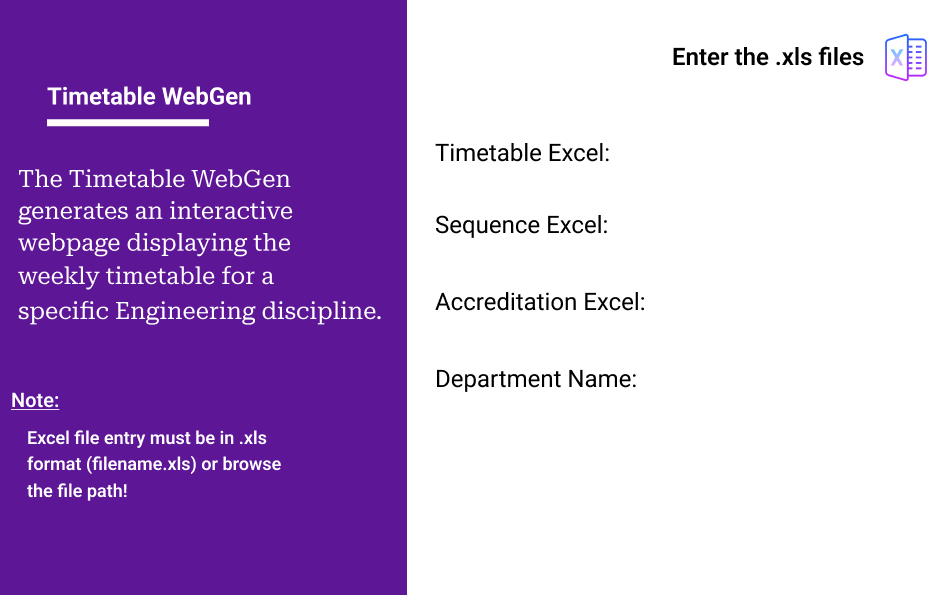
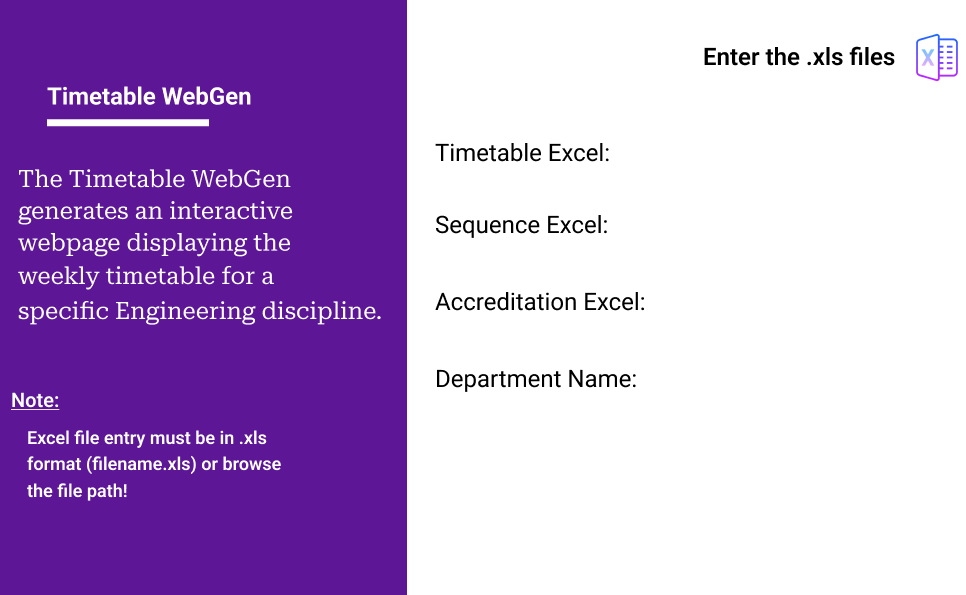
GUI positioning tweaks

diff --git a/src/main.py b/src/main.py
@@ -424,7 +424,7 @@ menubutton.place(x=1005, y=365)
 
 background_img = PhotoImage(file = f"GUI_images/background.png")
 background = canvas.create_image(
-    467.5, 297.5,
+    483.0, 297.5,
     image=background_img)
 
 ######browse functions######
